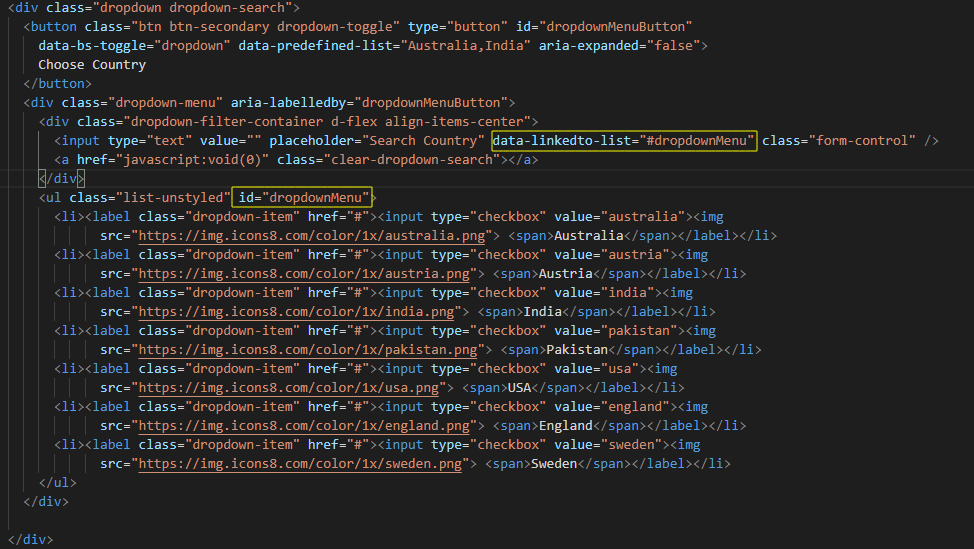
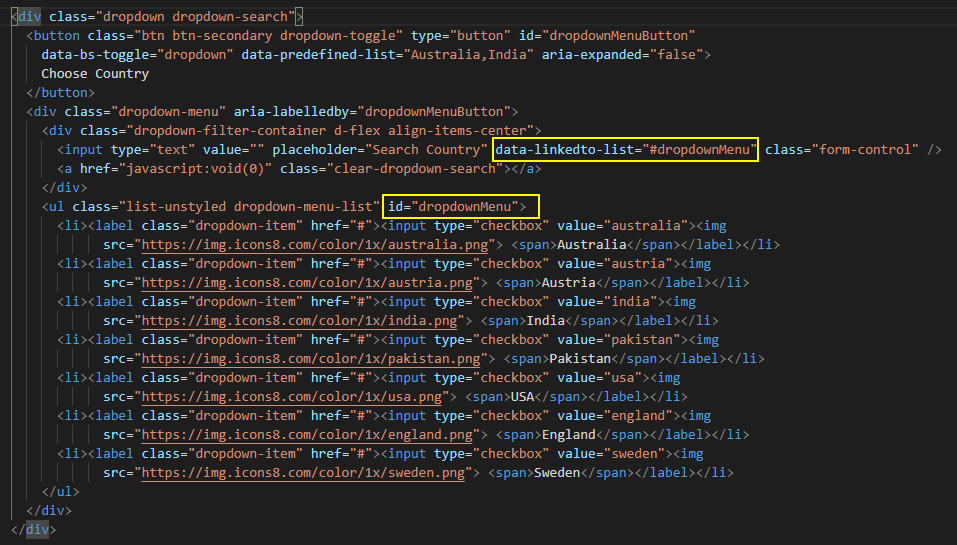
readme - updated

Changed region(s): [[0.0, 0.0, 0.9697, 0.9982]]

diff --git a/index.html b/index.html
@@ -17,6 +17,7 @@
   <section class="container mt-5">
     <div class="row">
       <div class="col-4">
+        
         <div class="dropdown dropdown-search">
           <button class="btn btn-secondary dropdown-toggle" type="button" id="dropdownMenuButton"
             data-bs-toggle="dropdown" data-predefined-list="Australia,India" aria-expanded="false">
@@ -44,8 +45,9 @@
                     src="https://img.icons8.com/color/1x/sweden.png"> <span>Sweden</span></label></li>
             </ul>
           </div>
-
         </div>
+
+
       </div>
     </div>
   </section>

diff --git a/README.md b/README.md
@@ -9,31 +9,25 @@
 <p>Adding additional features to bootstrap down</p>
 
 <ol>
-  <li style="border-bottom:1px solid #333:padding:10px 0;">Adding search/filter to dropdown
+  <li>Adding search/filter to dropdown
   <h4>View</h4>
   <img src="https://github.com/chandar1119/dropdown/blob/master/assets/images/onlyfor-readme/sample-search.png">
-
-  <h4>HTML PART</h4>
-  <code>
-    <div class="dropdown-filter-container d-flex align-items-center">
-      <input type="text" value="" placeholder="Search Country" data-linkedto-list="#dropdownMenu" class="form-control" />
-      <a href="javascript:void(0)" class="clear-dropdown-search"></a>
-    </div>
-  </code>
-  search input data-linkedto-list must be same as <b>.dropdown-menu-list</b> attribute id - linking filter feature
-  <h4>Referrence</h4>
+  To initialize Search Feature for dropdown we need to declare a HTML input with an attribute "data-linkedto-list" and that must be same as "dropdown-menu-list" div's id
+  <h4>Screen Shot for Referrence</h4>
   <img src="https://github.com/chandar1119/dropdown/blob/master/assets/images/onlyfor-readme/input-ref.png">
-
   </li>
-  <li style="border-bottom:1px solid #333:padding:10px 0;">Multiple Choose dropdown</li>
 
-  <li style="border-bottom:1px solid #333:padding:10px 0;"><b>We need to mention preload data in dropdown button attribute <code>data-predefined-list=""<code> based on this value the dropdown will be preloaded/preselected<b>
-
+  <li>Preload/preselect dropdown list
+  
+  <b>We need to mention preload data in dropdown button attribute <code>data-predefined-list=""<code> based on this value the dropdown will be preloaded/preselected<b>
   <h4>View</h4>
   <img src="https://github.com/chandar1119/dropdown/blob/master/assets/images/onlyfor-readme/sample-dropdown.png">
-  <h4>HTML PART</h4>
+  <h4>Screen Shot for Referrence</h4>
   <img src="https://github.com/chandar1119/dropdown/blob/master/assets/images/onlyfor-readme/sample-html-code.png">
+  </li>
 
+  <li>
+  Event handling are done in custom.js and it will located here <a href="https://github.com/chandar1119/dropdown/blob/master/assets/js/custom.js" title="js"></a>
   </li>
 </ol>
 
